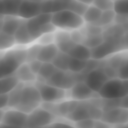
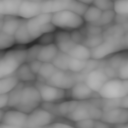
invert (fix) height map

diff --git a/src/main/java/mayo/registry/MaterialRegistry.java b/src/main/java/mayo/registry/MaterialRegistry.java
@@ -15,7 +15,9 @@ public enum MaterialRegistry {
     COBBLESTONE,
     CRISSCROSS_FOAM,
     FUR,
+    GOLD,
     GORE,
+    GRASS,
     GRASS_MEADOW,
     LAVA_ROCK,
     LEATHER_PLAIN,
